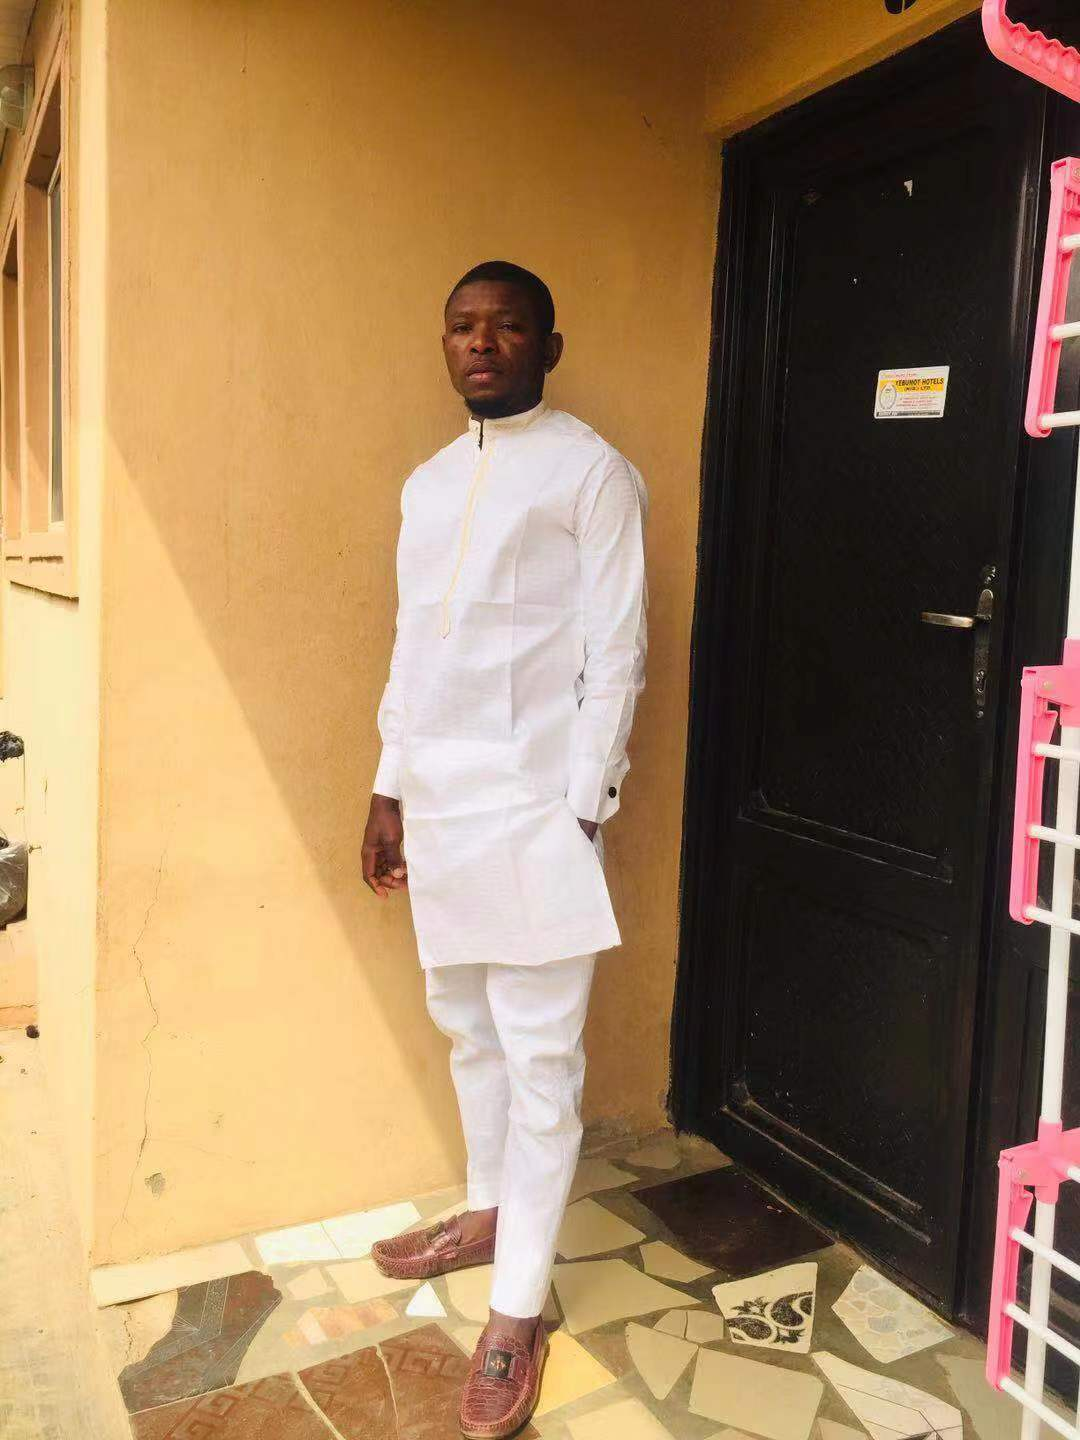
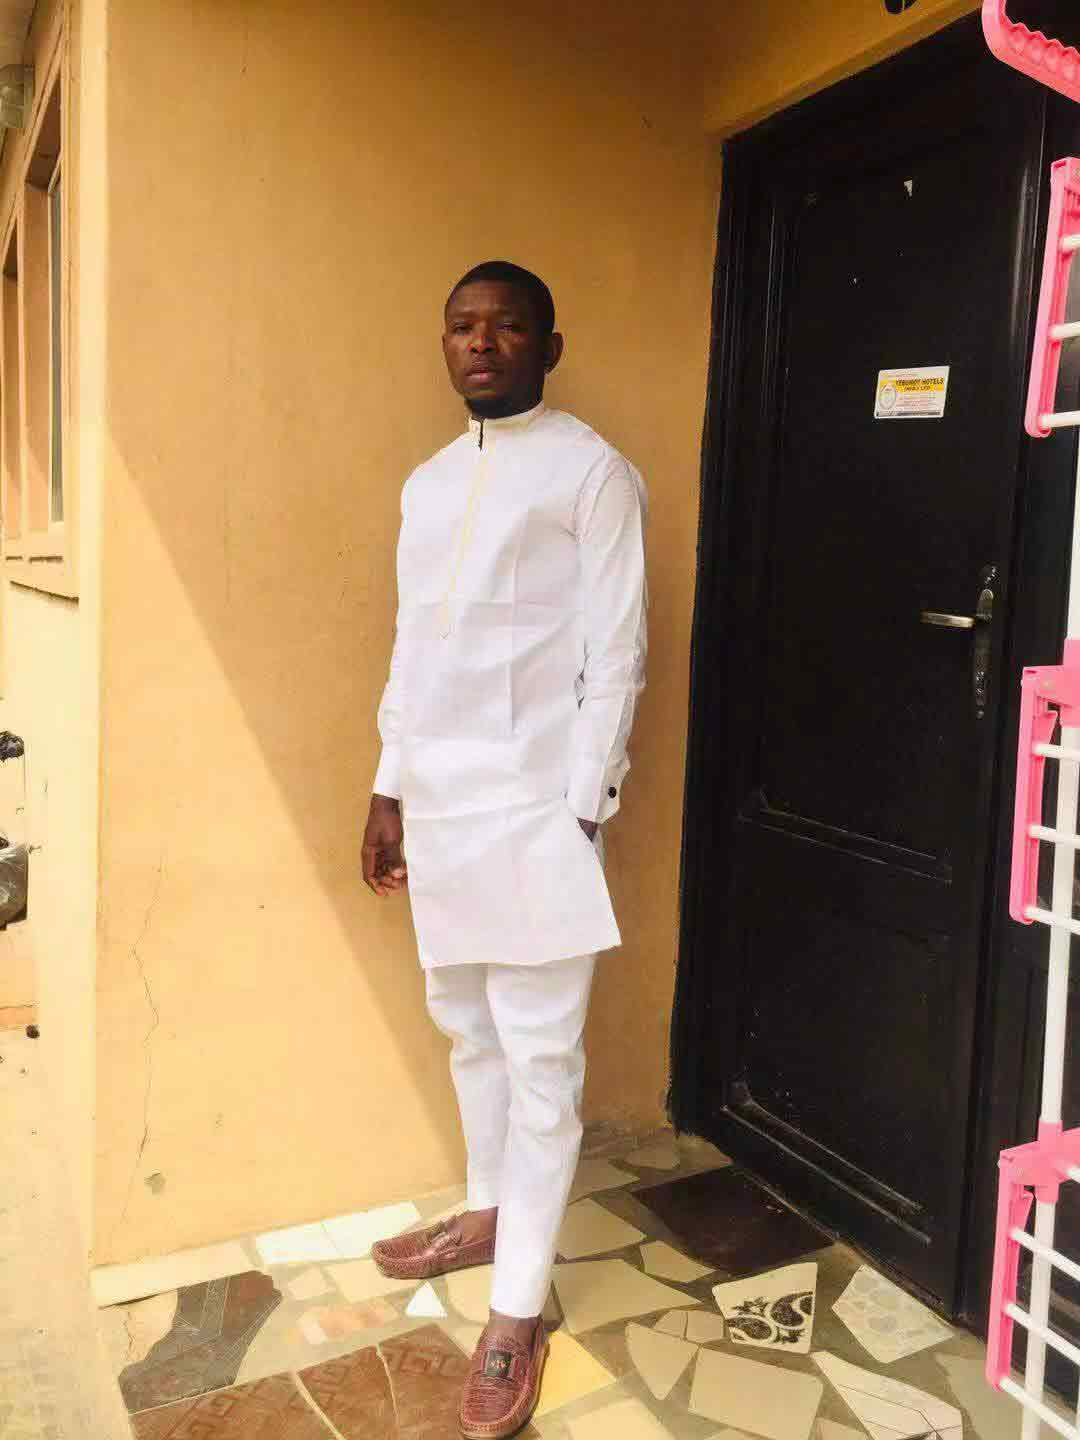
修改图片大小

diff --git a/templates/home.html b/templates/home.html
@@ -92,7 +92,7 @@
             <ul>
               <li><a href="d825" target="_blank"><img src="{% static 'img/slider1/1.jpg' %}"></a></li>
               <li><a href="d624" target="_blank"><img src="{% static 'img/slider1/2.jpg' %}"></a></li>
-              <li><a href="d1220" target="_blank"><img src="{% static 'img/slider1/3.png' %}"></a></li>
+              <li><a href="d1220" target="_blank"><img src="{% static 'img/slider1/3.jpg' %}"></a></li>
               <li><a href="d419" target="_blank"><img src="{% static 'img/slider1/4.jpg' %}" style="transform: rotate(270deg)" ></a></li>
               <li><a href="d1125" target="_blank"><img src="{% static 'img/slider1/5.jpg' %}"></a></li>
               <li><a href="d722" target="_blank"><img src="{% static 'img/slider1/6.jpg' %}" style="transform: rotate(180deg)" ></a></li>
@@ -131,7 +131,7 @@
         <ul>
           <li><a href="d825" target="_blank"><img src="{% static 'img/slider1/1.jpg' %}"><span class="select_text">智慧城市技术与创意设计大赛中取得佳绩</span><span class="select_date">2018/08/25</span></a></li>
           <li><a href="d624" target="_blank"><img src="{% static 'img/slider1/2.jpg' %}"><span class="select_text">杨炯灿会议证明</span><span class="select_date">2018/06/24</span></a></li>
-          <li><a href="d1220" target="_blank"><img src="{% static 'img/slider1/3.png' %}"><span class="select_text">匡也会议邀请信</span><span class="select_date">2017/10/19</span></a></li>
+          <li><a href="d1220" target="_blank"><img src="{% static 'img/slider1/3.jpg' %}"><span class="select_text">匡也会议邀请信</span><span class="select_date">2017/10/19</span></a></li>
           <li><a href="d419" target="_blank"><img src="{% static 'img/slider1/4.jpg' %}"><span class="select_text">创新杯三等奖</span><span class="select_date">2017/04/19</span></a></li>
           <li><a href="d1125" target="_blank"><img src="{% static 'img/slider1/5.jpg' %}"><span class="select_text">物理与实验科技作品创新竞赛</span><span class="select_date">2018/11/25</span></a></li>
           <li><a href="d722" target="_blank"><img src="{% static 'img/slider1/6.jpg' %}"><span class="select_text">“晋拓杯”江苏省大学生机械创新设计大赛</span><span class="select_date">2018/07/22</span></a></li>
